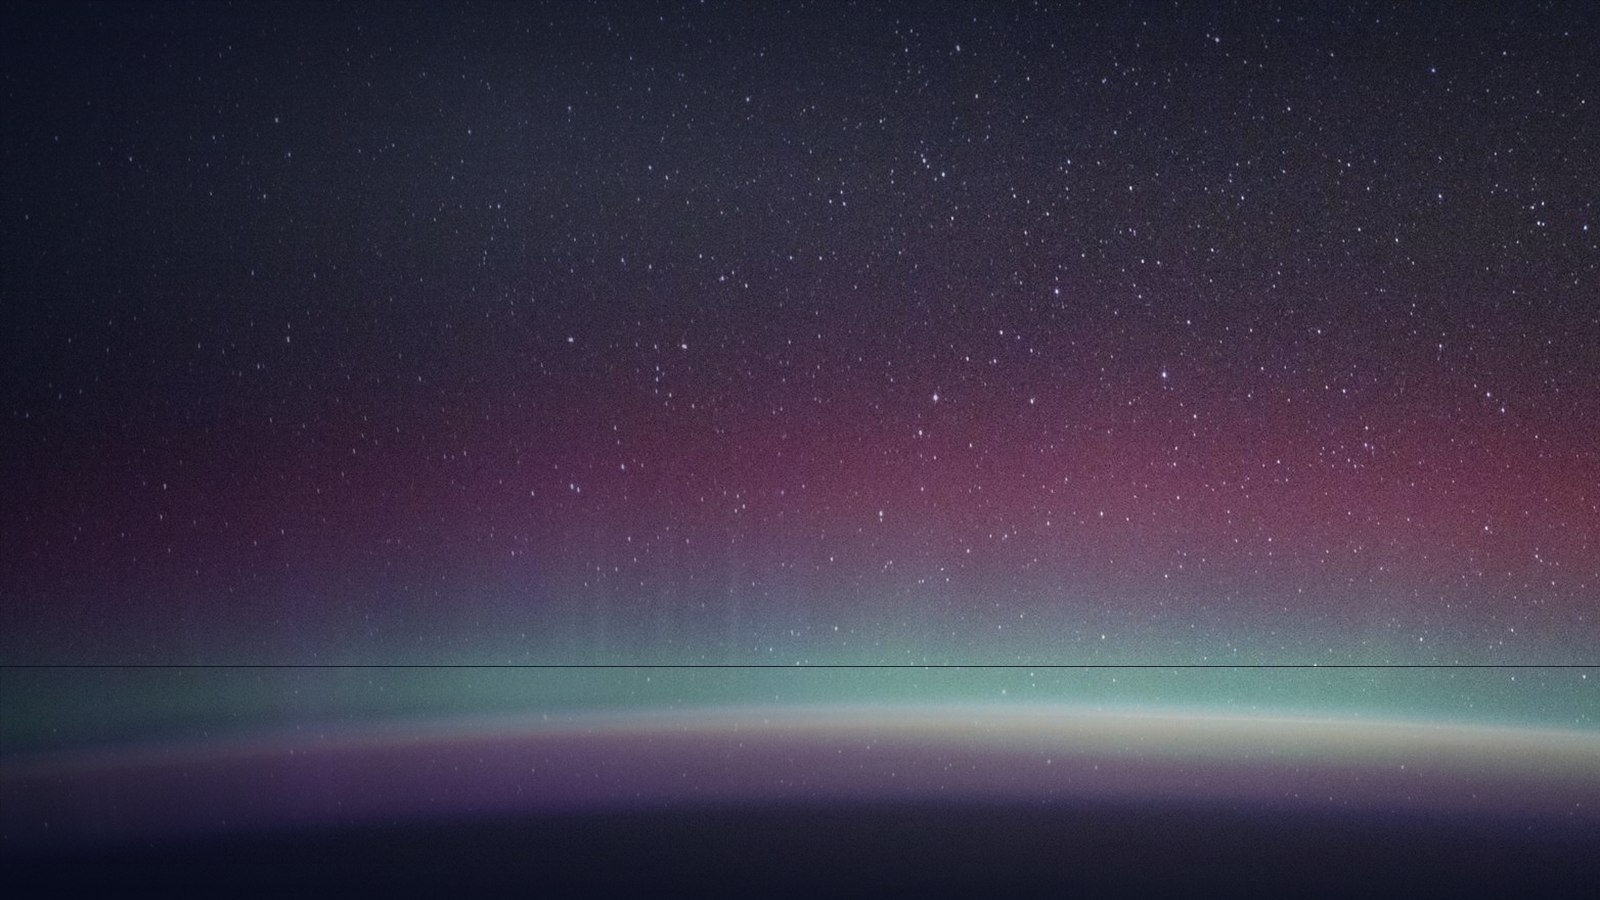
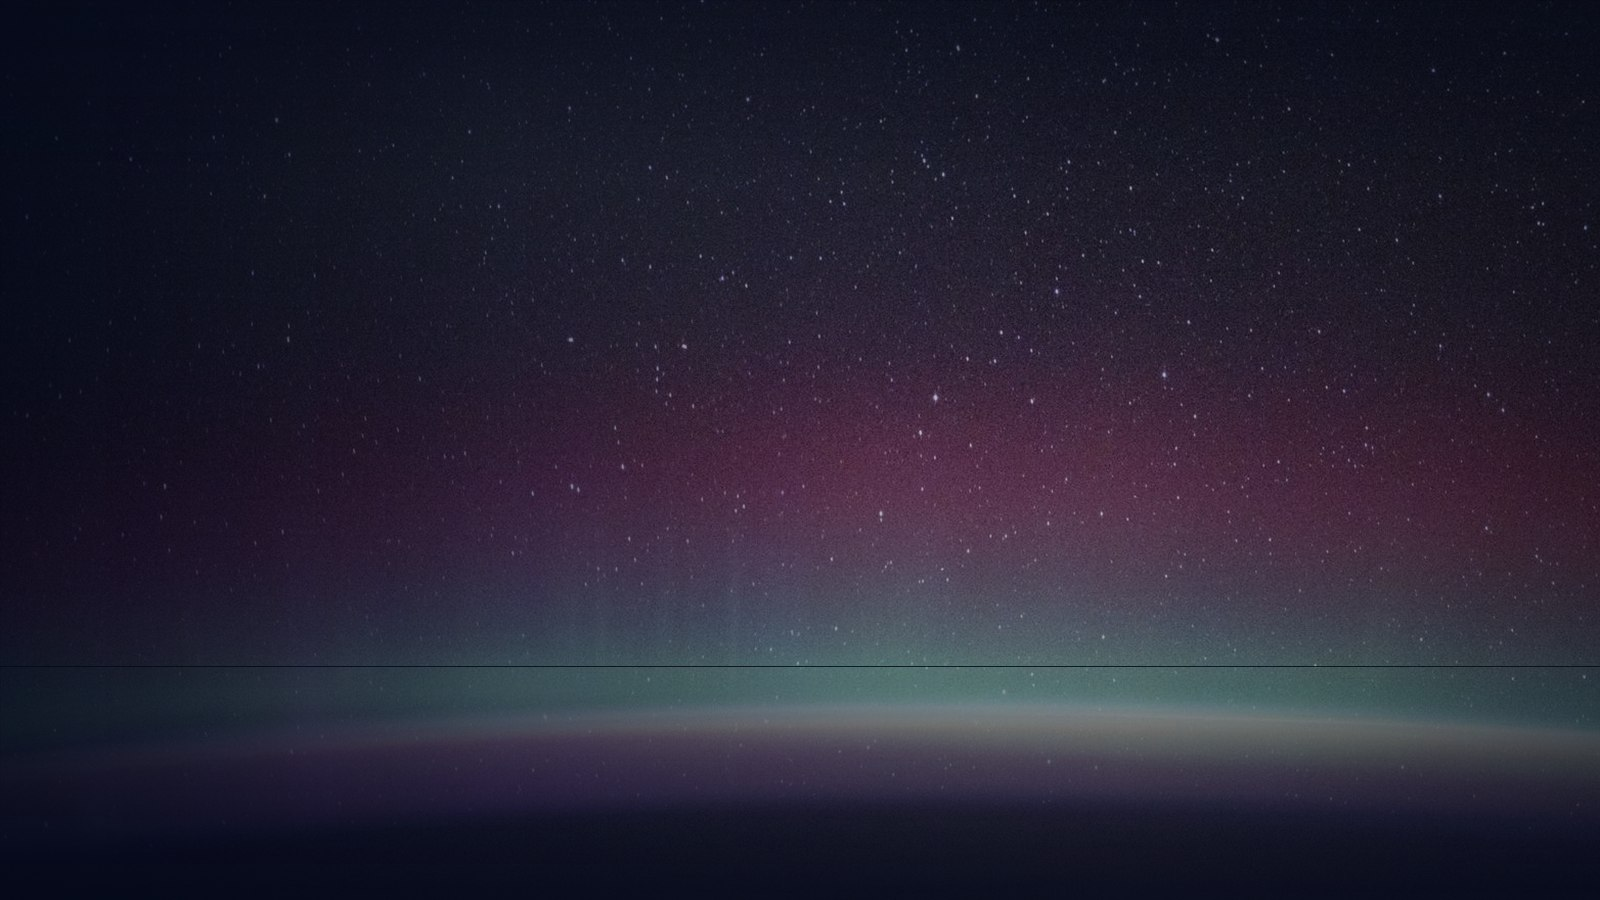
feat: 背景调暗 + 流星氛围强化（更暗、更有氛围感）
背景图（重新生成）：
- 整体压深 18 -> 40，冷调薄雾 26/16 -> 16/10（雾太亮会把暗部提起来）
- 左上柔光 34 -> 26，新增四角暗角（中心透明 -> 边缘 alpha 155 深蓝黑）
- 平均亮度 57.5 -> 37.8，画面更沉、紫色氛围更强、视线被收拢到中间
- 文件体积 226KB -> 173KB（更暗的图 JPEG 压缩率更高，附带收益）

流星（氛围感主角）：
- 分两种：big（长尾大流星，慢/亮/拖尾长 280~520px）与
  small（短促小流星，快/细/滑过即走）
- 大流星额外加一层 3.4 倍宽的柔光描边，拖尾有了厚度
- 头部光晕按大小区分：大流星 46px 更亮，小流星 26px
- 节奏：常态 1.4~2.6 秒一批（1~2 颗）；另有 10% 概率触发"流星雨"，
  连发 4~6 颗且首颗必为大流星
- 色相扩展：金色约四成，新增紫色（violet）点缀
- 同屏上限 5 -> 7 颗

极光：背景压暗后有了空间，透明度 0.40~0.72 -> 0.58~0.95

可读性（背景变暗必须复核）：
- 新增 tools/audit-contrast.js：估算合成后背景色并计算 WCAG 对比度
- 检出 --text-dim 在内容区为 4.38:1（低于 AA 的 4.5）
- 调为 #828fb2（4.85:1），视觉几乎无差别
- 复核结果：首屏与内容区 5 类文字全部达到 WCAG AA

工程记录：
- make-sky-bg.ps1 必须保持纯 ASCII：PowerShell 5.1 会按 GBK 读 UTF-8 文件，
  中文注释会导致 "缺少右 }" 解析错误（本脚本已因此失败两次）

全项检查（部署前）：
- JS 语法 exit=0 · check-site ALL CHECKS PASSED
- 480 帧无报错 · 拖拽星屑与点击星环均已绘制 · 漩涡收尾正常
- 每帧成本：arc 820/1200、stroke 500/900、渐变 4.96/帧 —— 60fps 预算内
- 话题 24/24 · 留言板 22/22 · 故障隔离 10/10 · 主循环变量无重复
- 对比度：不合格 0 项 · 仅大字号合格 0 项 · 全部达 WCAG AA

diff --git a/assets/js/main.js b/assets/js/main.js
@@ -169,7 +169,8 @@
           vx: rnd(0.045, 0.14) * (Math.random() > 0.5 ? 1 : -1),
           ph: Math.random() * Math.PI * 2,
           sp: rnd(0.004, 0.011),
-          a: rnd(0.40, 0.72)
+          // 背景压暗后有了空间，极光可以更明显一点（氛围感主力）
+          a: rnd(0.58, 0.95)
         });
       }
 
@@ -221,20 +222,28 @@
       return c;
     }
 
-    function spawnComet() {
-      if (comets.length >= 5) return;
+    /* 流星：氛围感的主角。分两种——
+       big   : 长尾大流星，慢、亮、拖尾长，偶尔来一颗就够惊艳
+       small : 短促小流星，快、细、滑过即走，用来撑"流星雨"的密度
+       两者都走预渲染精灵画头部，拖尾用实心描边分段，零每帧渐变创建。 */
+    function spawnComet(force) {
+      if (comets.length >= 7) return;
+      var big = force === 'big' || (force !== 'small' && Math.random() < 0.34);
       var fromLeft = Math.random() > 0.35;
+      var ang = fromLeft ? rnd(0.28, 0.62) : rnd(Math.PI - 0.62, Math.PI - 0.28);
+      var roll = Math.random();
       comets.push({
-        x: fromLeft ? rnd(-w * 0.2, w * 0.55) : rnd(w * 0.5, w * 1.2),
-        y: rnd(-h * 0.05, h * 0.55),
-        ang: fromLeft ? rnd(0.28, 0.62) : rnd(Math.PI - 0.62, Math.PI - 0.28),
-        speed: rnd(7, 14),
-        len: rnd(140, 320),
+        x: fromLeft ? rnd(-w * 0.25, w * 0.6) : rnd(w * 0.45, w * 1.25),
+        y: rnd(-h * 0.08, h * 0.6),
+        ang: ang,
+        speed: big ? rnd(6, 10) : rnd(11, 20),
+        len: big ? rnd(280, 520) : rnd(90, 200),
         life: 1,
-        decay: rnd(0.004, 0.0085),
-        width: rnd(1.4, 3.2),
-        // 金色彗星占比提到约 40%，"金色星光"成为主视觉
-        hue: Math.random() > 0.6 ? 'gold' : 'ice'
+        decay: big ? rnd(0.0032, 0.0052) : rnd(0.0075, 0.014),
+        width: big ? rnd(2.0, 3.6) : rnd(1.0, 2.0),
+        // 金色约占四成，"金色星光"成为主视觉；大流星偏向金白
+        hue: roll > (big ? 0.52 : 0.62) ? 'gold' : (roll > 0.15 ? 'ice' : 'violet'),
+        big: big
       });
     }
 
@@ -508,9 +517,22 @@
         ctx.lineTo(tx, ty);
         ctx.stroke();
 
-        // 头部光晕：改用预渲染精灵
-        halo('255, 255, 255', cm.x, cm.y, 30, Math.min(1, 1.1 * cm.life));
-        halo(col2, cm.x, cm.y, 20, 0.62 * cm.life);
+        // 大流星额外加一层更宽的柔光，让拖尾有厚度（氛围感的关键）
+        if (cm.big) {
+          ctx.globalAlpha = 0.22 * cm.life;
+          ctx.strokeStyle = grad;
+          ctx.lineWidth = cm.width * 3.4;
+          ctx.beginPath();
+          ctx.moveTo(cm.x, cm.y);
+          ctx.lineTo(tx, ty);
+          ctx.stroke();
+          ctx.globalAlpha = 1;
+        }
+
+        // 头部光晕：预渲染精灵。大流星更亮更大
+        var headR = cm.big ? 46 : 26;
+        halo('255, 255, 255', cm.x, cm.y, headR, Math.min(1, (cm.big ? 1.25 : 1.0) * cm.life));
+        halo(col2, cm.x, cm.y, headR * 0.72, (cm.big ? 0.8 : 0.55) * cm.life);
 
         cm.x += dx * cm.speed * dt;
         cm.y += dy * cm.speed * dt;
@@ -602,12 +624,20 @@
       }
       ctx.globalCompositeOperation = 'source-over';
 
-      // 彗星节奏：平均 1.6~3.2 秒一颗，约七成概率同时来两颗
+      // 流星节奏：常态约 1.4~2.6 秒来一批，一批 1~2 颗；
+      // 另有一成概率触发"流星雨"——短时间连发 4~6 颗，其中一颗必为大流星。
       acc += rawDt;
       if (acc > cometAt) {
-        spawnComet();
-        if (Math.random() > 0.3) spawnComet();
-        cometAt = rnd(1600, 3200);
+        var shower = Math.random() < 0.1;
+        if (shower) {
+          var burst = 4 + Math.floor(Math.random() * 3);
+          for (var cb = 0; cb < burst; cb++) spawnComet(cb === 0 ? 'big' : 'small');
+          cometAt = rnd(2600, 4200);
+        } else {
+          spawnComet();
+          if (Math.random() > 0.42) spawnComet('small');
+          cometAt = rnd(1400, 2600);
+        }
         acc = 0;
       }
 

diff --git a/assets/css/style.css b/assets/css/style.css
@@ -23,7 +23,7 @@
 
   --text: #e8eefc;
   --text-soft: #a9b6d6;
-  --text-dim: #7a87ab;
+  --text-dim: #828fb2;
 
   --glass-bg: rgba(140, 170, 255, 0.07);
   --glass-bd: rgba(170, 200, 255, 0.16);
